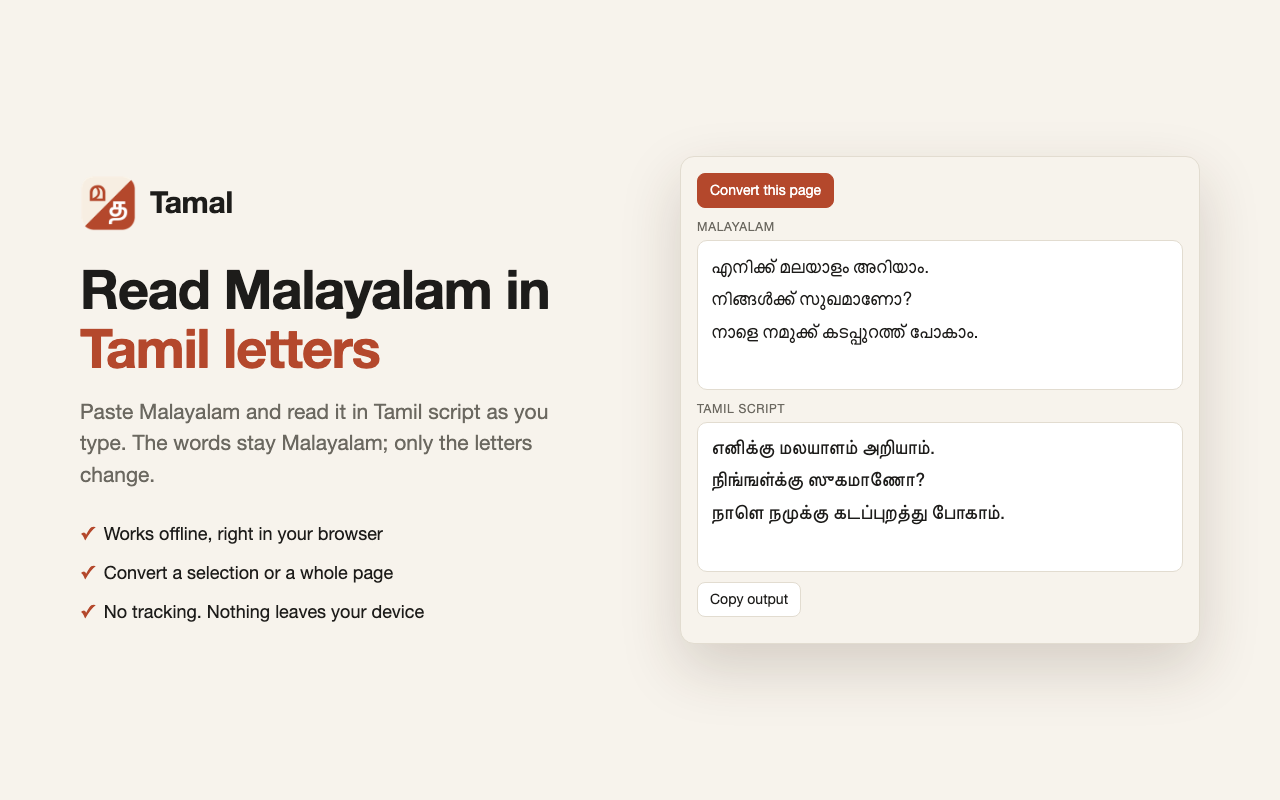
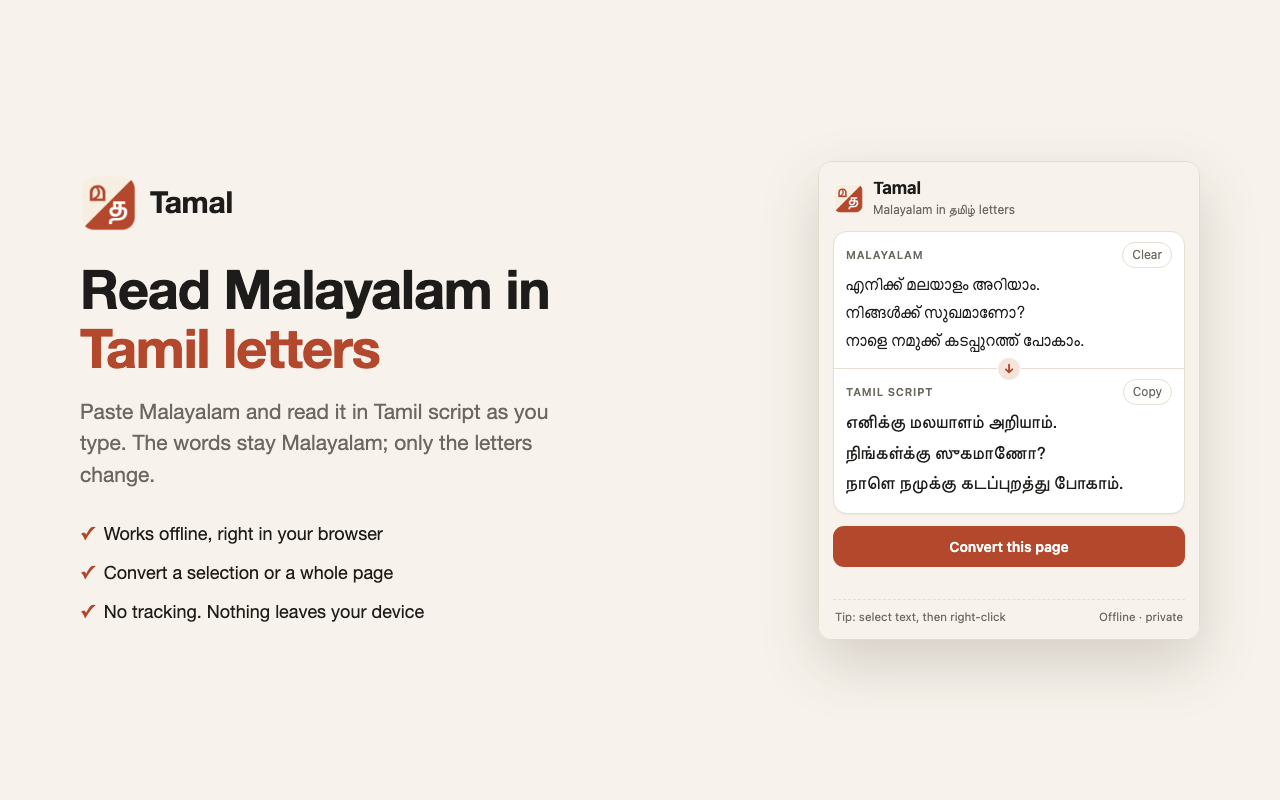
Release 0.1.3: cleaner Tamil spelling and a redesigned popup
- ങ്ങ → ங்க, ഞ്ഞ → ஞ்ச, റ്റ → ட்ட, ശ → ஷ, ഫ → ஃப
- Fix the lone au sign ൗ, which produced broken கௗ
- Redesign the popup; store screenshot 1 now embeds the real popup

diff --git a/extension/popup.html b/extension/popup.html
@@ -3,31 +3,95 @@
 <head>
 <meta charset="UTF-8" />
 <style>
-  :root { --bg: #f7f6f2; --panel: #fff; --ink: #1d1c1a; --muted: #6b6860; --line: #e2dfd7; --accent: #b4482c; color-scheme: light dark; }
-  @media (prefers-color-scheme: dark) { :root { --bg: #151514; --panel: #1f1f1d; --ink: #ecebe6; --muted: #9a978e; --line: #33322f; --accent: #e5825f; } }
+  :root {
+    --bg: #f7f3ec; --panel: #fff; --ink: #1d1c1a; --muted: #6b6860; --line: #e6dfd2;
+    --accent: #b4482c; --accent-ink: #fff; --accent-soft: #f5e4dc; --ok: #3c7a4a;
+    color-scheme: light dark;
+  }
+  @media (prefers-color-scheme: dark) {
+    :root {
+      --bg: #171614; --panel: #22211e; --ink: #ecebe6; --muted: #9a978e; --line: #34322e;
+      --accent: #e0785a; --accent-ink: #1d1c1a; --accent-soft: #3a2721; --ok: #7cc28b;
+    }
+  }
   * { box-sizing: border-box; }
-  body { margin: 0; width: 460px; padding: 12px; background: var(--bg); color: var(--ink); font: 14px/1.5 system-ui, -apple-system, sans-serif; }
-  .bar { display: flex; gap: 6px; align-items: center; margin-bottom: 8px; }
-  button { font: inherit; font-size: 13px; padding: 5px 10px; border: 1px solid var(--line); border-radius: 7px; background: var(--panel); color: var(--ink); cursor: pointer; }
-  button.primary { background: var(--accent); border-color: var(--accent); color: #fff; }
-  textarea { width: 100%; height: 150px; resize: vertical; padding: 10px; margin-bottom: 8px; font: 16px/1.6 system-ui, sans-serif; border: 1px solid var(--line); border-radius: 9px; background: var(--panel); color: var(--ink); }
-  #output { font-family: "Tamil Sangam MN", "Noto Sans Tamil", "Latha", system-ui, sans-serif; }
-  label { display: block; font-size: 11px; text-transform: uppercase; letter-spacing: .06em; color: var(--muted); margin-bottom: 3px; }
-  #status { color: var(--muted); font-size: 12px; margin-left: auto; }
+  body { margin: 0; width: 380px; padding: 14px; background: var(--bg); color: var(--ink);
+    font: 14px/1.5 -apple-system, system-ui, "Segoe UI", sans-serif; }
+  button { font: inherit; color: inherit; cursor: pointer; }
+  .ml { font-family: "Malayalam Sangam MN", "Noto Sans Malayalam", "Kartika", system-ui, sans-serif; }
+  .ta { font-family: "Tamil Sangam MN", "Noto Sans Tamil", "Latha", system-ui, sans-serif; }
+
+  header { display: flex; align-items: center; gap: 10px; margin-bottom: 12px; }
+  header img { width: 30px; height: 30px; border-radius: 22%; }
+  header b { font-size: 17px; letter-spacing: -.01em; }
+  header small { display: block; color: var(--muted); font-size: 12px; line-height: 1.3; }
+
+  .card { background: var(--panel); border: 1px solid var(--line); border-radius: 14px;
+    box-shadow: 0 1px 2px rgba(60, 40, 20, .06); }
+  .pane { padding: 10px 12px 12px; }
+  .pane + .pane { border-top: 1px solid var(--line); position: relative; }
+  .head { display: flex; align-items: center; justify-content: space-between; min-height: 24px; margin-bottom: 4px; }
+  .label { font-size: 11px; font-weight: 600; text-transform: uppercase; letter-spacing: .07em; color: var(--muted); }
+  .chip { position: absolute; top: -12px; left: 50%; transform: translateX(-50%); width: 24px; height: 24px;
+    display: grid; place-items: center; border-radius: 50%; background: var(--accent-soft); color: var(--accent);
+    border: 1px solid var(--panel); font-size: 13px; font-weight: 700; }
+
+  textarea { display: block; width: 100%; min-height: 84px; max-height: 180px; resize: none; padding: 0; border: 0;
+    outline: none; background: transparent; color: var(--ink); font-size: 17px; line-height: 1.65; }
+  textarea::placeholder { color: var(--muted); opacity: .8; }
+  #output { min-height: 84px; max-height: 200px; overflow: auto; white-space: pre-wrap; font-size: 18px; line-height: 1.7; }
+  #output:empty::before { content: attr(data-empty); color: var(--muted); opacity: .8; font: 14px/1.6 -apple-system, system-ui, sans-serif; }
+
+  .ghost { display: inline-flex; align-items: center; gap: 5px; padding: 3px 9px; font-size: 12px; border-radius: 999px;
+    border: 1px solid var(--line); background: transparent; color: var(--muted); }
+  .ghost:hover { color: var(--ink); border-color: var(--muted); }
+  .ghost[hidden] { display: none; }
+  .ghost.done { color: var(--ok); border-color: currentColor; }
+
+  .primary { display: flex; align-items: center; justify-content: center; gap: 8px; width: 100%; margin-top: 12px;
+    padding: 10px 14px; border: 0; border-radius: 11px; background: var(--accent); color: var(--accent-ink);
+    font-size: 14px; font-weight: 600; }
+  .primary:hover { filter: brightness(1.06); }
+  .primary:disabled { opacity: .7; cursor: default; }
+
+  #status { min-height: 18px; margin: 8px 2px 0; font-size: 12px; color: var(--muted); text-align: center; }
+  #status.ok { color: var(--ok); }
+  footer { display: flex; justify-content: space-between; gap: 8px; margin-top: 6px; padding: 8px 2px 0;
+    border-top: 1px dashed var(--line); font-size: 11.5px; color: var(--muted); white-space: nowrap; }
 </style>
 </head>
 <body>
-  <div class="bar">
-    <button id="page" class="primary">Convert this page</button>
-    <span id="status"></span>
+  <header>
+    <img src="icons/48.png" alt="">
+    <div><b>Tamal</b><small>Malayalam in <span class="ta">தமிழ்</span> letters</small></div>
+  </header>
+
+  <div class="card">
+    <div class="pane">
+      <div class="head">
+        <span class="label">Malayalam</span>
+        <button id="clear" class="ghost" hidden>Clear</button>
+      </div>
+      <textarea id="input" class="ml" lang="ml" placeholder="Paste or type Malayalam here…" autofocus></textarea>
+    </div>
+    <div class="pane">
+      <span class="chip" aria-hidden="true">↓</span>
+      <div class="head">
+        <span class="label">Tamil script</span>
+        <button id="copy" class="ghost" hidden>Copy</button>
+      </div>
+      <div id="output" class="ta" lang="ta" aria-live="polite" data-empty="The Tamil-script version shows up here as you type."></div>
+    </div>
   </div>
-  <label for="input">Malayalam</label>
-  <textarea id="input" lang="ml" placeholder="…or paste Malayalam text here" autofocus></textarea>
-  <label for="output">Tamil script</label>
-  <textarea id="output" lang="ta" placeholder="Tamil-script output" readonly></textarea>
-  <div class="bar">
-    <button id="copy">Copy output</button>
-  </div>
+
+  <button id="page" class="primary">Convert this page</button>
+  <div id="status" role="status"></div>
+
+  <footer>
+    <span>Tip: select text, then right-click</span>
+    <span>Offline · private</span>
+  </footer>
+
   <script src="tamal.js"></script>
   <script src="popup.js"></script>
 </body>

diff --git a/store/src/screenshot-1.html b/store/src/screenshot-1.html
@@ -11,18 +11,15 @@
   p.lede { font-size: 21px; color: var(--muted); max-width: 520px; }
   ul { list-style: none; padding: 0; margin-top: 30px; display: grid; gap: 12px; font-size: 18px; }
   li::before { content: "✓"; color: var(--accent); font-weight: 700; margin-right: 10px; }
-  .popup { background: var(--bg); border: 1px solid var(--line); border-radius: 14px; padding: 16px; box-shadow: 0 24px 60px rgba(60, 40, 20, .18); }
-  .bar { display: flex; gap: 8px; align-items: center; margin-bottom: 10px; }
-  .btn { font-size: 14px; padding: 6px 12px; border: 1px solid var(--line); border-radius: 8px; background: var(--panel); }
-  .btn.primary { background: var(--accent); border-color: var(--accent); color: #fff; }
-  .box { background: var(--panel); border: 1px solid var(--line); border-radius: 10px; padding: 12px 14px; font-size: 19px; line-height: 1.7; min-height: 150px; margin-bottom: 10px; white-space: pre-wrap; }
-  .label { font-size: 12px; text-transform: uppercase; letter-spacing: .06em; color: var(--muted); margin-bottom: 4px; }
+  .popup { border: 1px solid var(--line); border-radius: 14px; overflow: hidden; box-shadow: 0 24px 60px rgba(60, 40, 20, .18); }
+  .popup iframe { display: block; width: 380px; height: 560px; border: 0; }
+  body { grid-template-columns: 1fr 382px; }
 </style>
 </head>
 <body>
   <div>
     <div class="brand"><img src="../../extension/icons/128.png" width="56" height="56" alt=""><b>Tamal</b></div>
-    <h1>Read Malayalam in <em>Tamil letters</em></h1>
+    <h1>Read Malayalam in<br><em>Tamil letters</em></h1>
     <p class="lede">Paste Malayalam and read it in Tamil script as you type. The words stay Malayalam; only the letters change.</p>
     <ul>
       <li>Works offline, right in your browser</li>
@@ -30,17 +27,17 @@
       <li>No tracking. Nothing leaves your device</li>
     </ul>
   </div>
-  <div class="popup">
-    <div class="bar"><span class="btn primary">Convert this page</span></div>
-    <div class="label">Malayalam</div>
-    <div class="box ml" id="in">എനിക്ക് മലയാളം അറിയാം.
-നിങ്ങൾക്ക് സുഖമാണോ?
-നാളെ നമുക്ക് കടപ്പുറത്ത് പോകാം.</div>
-    <div class="label">Tamil script</div>
-    <div class="box ta" id="out"></div>
-    <div class="bar"><span class="btn">Copy output</span></div>
-  </div>
-  <script src="../../extension/tamal.js"></script>
-  <script>document.getElementById('out').textContent = Tamal.convert(document.getElementById('in').textContent);</script>
+  <!-- The real extension popup, filled with sample text. -->
+  <div class="popup"><iframe id="popup" src="../../extension/popup.html"></iframe></div>
+  <script>
+    const frame = document.getElementById('popup');
+    frame.onload = () => {
+      const doc = frame.contentDocument, input = doc.getElementById('input');
+      input.value = 'എനിക്ക് മലയാളം അറിയാം.\nനിങ്ങൾക്ക് സുഖമാണോ?\nനാളെ നമുക്ക് കടപ്പുറത്ത് പോകാം.';
+      input.dispatchEvent(new Event('input'));
+      input.blur();
+      frame.style.height = `${doc.body.offsetHeight}px`;
+    };
+  </script>
 </body>
 </html>

diff --git a/extension/tamal.js b/extension/tamal.js
@@ -2,7 +2,7 @@
 // Plain JS with no dependencies, used by the CLI and tests (require) and the extension (window.Tamal).
 //
 // Tamil has one letter per stop series, so voicing and aspiration are lost:
-// ക ഖ ഗ ഘ → க, പ ഫ ബ ഭ → ப, and so on. Tamil readers voice stops by position anyway.
+// ക ഖ ഗ ഘ → க, പ ബ ഭ → ப, and so on. Tamil readers voice stops by position anyway.
 (() => {
   const ML = 0x0d00;
   const TA = 0x0b80;
@@ -13,10 +13,16 @@
     'ഛ': 'ச', 'ഝ': 'ஜ',
     'ഠ': 'ட', 'ഡ': 'ட', 'ഢ': 'ட',
     'ഥ': 'த', 'ദ': 'த', 'ധ': 'த',
-    'ഫ': 'ப', 'ബ': 'ப', 'ഭ': 'ப',
+    'ബ': 'ப', 'ഭ': 'ப',
+    // ഫ is mostly "f" in everyday text (ഫോൺ, ഫുട്ബോൾ); Tamil writes f as ஃப.
+    'ഫ': 'ஃப',
     'ഺ': 'ற', 'ഋ': 'ரு', 'ൠ': 'ரூ', 'ഌ': 'லு', 'ൡ': 'லூ',
     'ൃ': '்ரு', 'ൄ': '்ரூ', 'ൢ': '்லு', 'ൣ': '்லூ',
-    'ഃ': 'ஃ', 'ഽ': '', 'ൗ': 'ௗ',
+    'ഃ': 'ஃ', 'ഽ': '',
+    // Modern Malayalam writes the au sign as ൗ alone (കൗതുകം); Tamil needs the full ௌ.
+    'ൗ': 'ௌ',
+    // Tamil has ஶ for ശ, but few readers know it; ஷ gives the same "sh" sound (ആശുപത്രി → ஆஷுபத்ரி).
+    'ശ': 'ஷ',
     // Chillus (consonant with no vowel) and the old dot reph.
     'ൺ': 'ண்', 'ൻ': 'ன்', 'ർ': 'ர்', 'ൽ': 'ல்', 'ൾ': 'ள்', 'ൿ': 'க்', 'ൔ': 'ம்', 'ൕ': 'ய்', 'ൖ': 'ழ்', 'ൎ': 'ர்',
   };
@@ -38,7 +44,12 @@
     .replace(/([ണനരലളക])്/g, (_, c) => CHILLU[c])
     .replace(/[]/g, '')
     .replace(/ു്/g, 'ു') // old spelling of the half-u: അതു് = അത്
-    .replace(/ശ്രീ/g, 'സ്രീ'); // Tamil writes Sri as ஸ்ரீ, not ஶ்ரீ
+    .replace(/\u0D46\u0D57/g, '\u0D4C') // au typed as two parts (െ + ൗ) → ൌ
+    .replace(/ശ്രീ/g, 'സ്രീ') // Tamil writes Sri as ஸ்ரீ, not ஷ்ரீ
+    // Double letters Tamil readers would stumble on get the usual Tamil spelling:
+    .replace(/ങ്ങ/g, 'ങ്ക') // ங்க, not ங்ங (ഇറങ്ങി → இறங்கி)
+    .replace(/ഞ്ഞ/g, 'ഞ്ച') // ஞ்ச, not ஞ்ஞ (കുഞ്ഞ് → குஞ்சு)
+    .replace(/റ്റ/g, 'ട്ട'); // ட்ட, the "tt" sound, not ற்ற (ടിക്കറ്റ് → டிக்கட்டு)
 
   function convert(input) {
     const s = normalize(input);

diff --git a/extension/popup.js b/extension/popup.js
@@ -1,21 +1,40 @@
 (() => {
   const $ = (id) => document.getElementById(id);
   const input = $('input'), output = $('output'), status = $('status');
+  const copy = $('copy'), clear = $('clear'), page = $('page');
 
-  input.addEventListener('input', () => {
-    output.value = Tamal.convert(input.value);
-    status.textContent = input.value && !/[ഀ-ൿ]/.test(input.value) ? 'No Malayalam text found' : '';
+  const say = (text, ok = false) => { status.textContent = text; status.classList.toggle('ok', ok); };
+
+  function update() {
+    output.textContent = Tamal.convert(input.value);
+    copy.hidden = clear.hidden = !input.value;
+    copy.textContent = 'Copy';
+    copy.classList.remove('done');
+    say(input.value && !/[ഀ-ൿ]/.test(input.value) ? 'No Malayalam text found' : '');
+    // Grow the box with its text, up to the CSS max-height.
+    input.style.height = 'auto';
+    input.style.height = `${input.scrollHeight}px`;
+  }
+
+  input.addEventListener('input', update);
+  clear.addEventListener('click', () => { input.value = ''; update(); input.focus(); });
+  copy.addEventListener('click', async () => {
+    await navigator.clipboard.writeText(output.textContent);
+    copy.textContent = 'Copied ✓';
+    copy.classList.add('done');
   });
-  $('copy').addEventListener('click', async () => { await navigator.clipboard.writeText(output.value); status.textContent = 'Copied'; });
 
-  $('page').addEventListener('click', async () => {
+  page.addEventListener('click', async () => {
+    page.disabled = true;
     const [tab] = await chrome.tabs.query({ active: true, currentWindow: true });
     try {
       await chrome.scripting.executeScript({ target: { tabId: tab.id }, files: ['tamal.js', 'content.js'] });
       const { count } = await chrome.tabs.sendMessage(tab.id, { type: 'page' });
-      status.textContent = count ? `Converted ${count} text blocks` : 'No Malayalam text on this page';
+      if (count) say(`✓ Converted ${count} text block${count === 1 ? '' : 's'}. New text converts as it loads.`, true);
+      else say('No Malayalam text on this page');
     } catch {
-      status.textContent = "Can't run on this page";
+      say("Chrome doesn't let extensions run on this page");
     }
+    page.disabled = false;
   });
 })();

diff --git a/test.js b/test.js
@@ -13,10 +13,17 @@ const CASES = [
   ['സംഗീതം', 'ஸங்கீதம்'], // anusvara before a velar → ங்
   ['ഭാരതം', 'பாரதம்'], // voiced/aspirated stops collapse
   ['കൃഷ്ണൻ', 'க்ருஷ்ணன்'], // vowel sign ൃ → ்ரு
-  ['ശ്രീ ശിവൻ', 'ஸ்ரீ ஶிவன்'], // Sri is written ஸ்ரீ in Tamil
+  ['ശ്രീ ശിവൻ', 'ஸ்ரீ ஷிவன்'], // Sri is written ஸ்ரீ in Tamil, other ശ as ஷ
+  ['ആശുപത്രിയിൽ', 'ஆஷுபத்ரியில்'],
+  ['പുറത്തിറങ്ങരുതെന്ന്', 'புறத்திறங்கருதென்னு'], // ങ്ങ → ங்க
+  ['കുഞ്ഞ് പറഞ്ഞു', 'குஞ்சு பறஞ்சு'], // ഞ്ഞ → ஞ்ச
+  ['ടിക്കറ്റ് ഒറ്റ', 'டிக்கட்டு ஒட்ட'], // റ്റ → ட்ட
+  ['സംഗീതം തുടങ്ങുന്നു', 'ஸங்கீதம் துடங்குன்னு'],
   ['ദുഃഖം', 'துஃகம்'],
   ['പൊന്നോണം', 'பொன்னோணம்'], // two-part vowel signs
   ['ഒരു ഓർമ്മ', 'ஒரு ஓர்ம்ம'],
+  ['കൗതുകം കൌതുകം', 'கௌதுகம் கௌதுகம்'], // both spellings of the au sign
+  ['ഫോൺ', 'ஃபோண்'], // ഫ → ஃப
   ['൧൨൩', '123'],
   ['Hello, കേരളം!', 'Hello, கேரளம்!'], // non-Malayalam text is left alone
 ];

diff --git a/store/render.js b/store/render.js
@@ -17,7 +17,7 @@ const CHROME = [
 // Headless Chrome can linger after writing the file, so stop it once it reports the write.
 function screenshot(src, out, size) {
   const profile = fs.mkdtempSync(path.join(os.tmpdir(), 'tamal-'));
-  const args = ['--headless', '--disable-gpu', '--no-first-run', '--no-default-browser-check', '--hide-scrollbars',
+  const args = ['--headless', '--disable-gpu', '--no-first-run', '--no-default-browser-check', '--hide-scrollbars', '--blink-settings=preferredColorScheme=1',
     '--force-device-scale-factor=1', '--allow-file-access-from-files', `--user-data-dir=${profile}`,
     `--window-size=${size.replace('x', ',')}`, '--virtual-time-budget=2000', `--screenshot=${out}`, `file://${src}`];
   return new Promise((resolve, reject) => {

diff --git a/README.md b/README.md
@@ -44,10 +44,13 @@ tamal notes.txt > notes.tamil.txt
 Most letters map one to one, because the Malayalam and Tamil Unicode blocks share a layout.
 Tamil has fewer letters, so some information is lost:
 
-- **Voicing and aspiration**: ക ഖ ഗ ഘ all become க, and പ ഫ ബ ഭ all become ப (`ഭാരതം` → `பாரதம்`).
+- **Voicing and aspiration**: ക ഖ ഗ ഘ all become க, and പ ബ ഭ all become ப (`ഭാരതം` → `பாரதம்`).
+- **ഫ** becomes ஃப, the Tamil spelling of "f" (`ഫോൺ` → `ஃபோண்`).
 - **ന** becomes ந at the start of a word and before த (`പന്ത്` → `பந்து`), and ன elsewhere (`എന്ന` → `என்ன`).
 - **Word-final ്** (the half-u) is written ு, the way it is pronounced (`അത്` → `அது`).
 - **ം** becomes the nasal that matches the next consonant (`സംഗീതം` → `ஸங்கீதம்`), and ம் otherwise.
+- **Double letters that Tamil doesn't use** get the usual Tamil spelling: ങ്ങ → ங்க (`ഇറങ്ങി` → `இறங்கி`), ഞ്ഞ → ஞ்ச (`കുഞ്ഞ്` → `குஞ்சு`), റ്റ → ட்ட (`ടിക്കറ്റ്` → `டிக்கட்டு`). And **ശ** is written ஷ (`ആശുപത്രി` → `ஆஷுபத்ரி`).
+- **The au sign ൗ**, written alone in modern spelling, becomes ௌ (`കൗതുകം` → `கௌதுகம்`).
 - **Chillus** become consonant + pulli (`അവൻ` → `அவன்`), including the older ZWJ spelling.
 - **ൃ** becomes ்ரு (`കൃഷ്ണൻ` → `க்ருஷ்ணன்`), and ശ്രീ becomes ஸ்ரீ.
 - **Malayalam digits** become 0–9.

diff --git a/store/listing.md b/store/listing.md
@@ -54,7 +54,7 @@ PRIVATE AND OFFLINE
 
 HOW THE CONVERSION WORKS
 Malayalam has more letters than Tamil, so Tamal follows the way Tamil readers already pronounce words:
-• ക ഖ ഗ ഘ become க, and പ ഫ ബ ഭ become ப (ഭാരതം → பாரதம்)
+• ക ഖ ഗ ഘ become க, and പ ബ ഭ become ப (ഭാരതം → பாரதம்); ഫ becomes ஃப (ഫോൺ → ஃபோண்)
 • ന becomes ந at the start of a word and ன elsewhere (എന്ന → என்ன)
 • The short "u" at the end of words is written ு (അത് → அது)
 • Chillu letters become consonant + pulli (അവൻ → அவன்)
